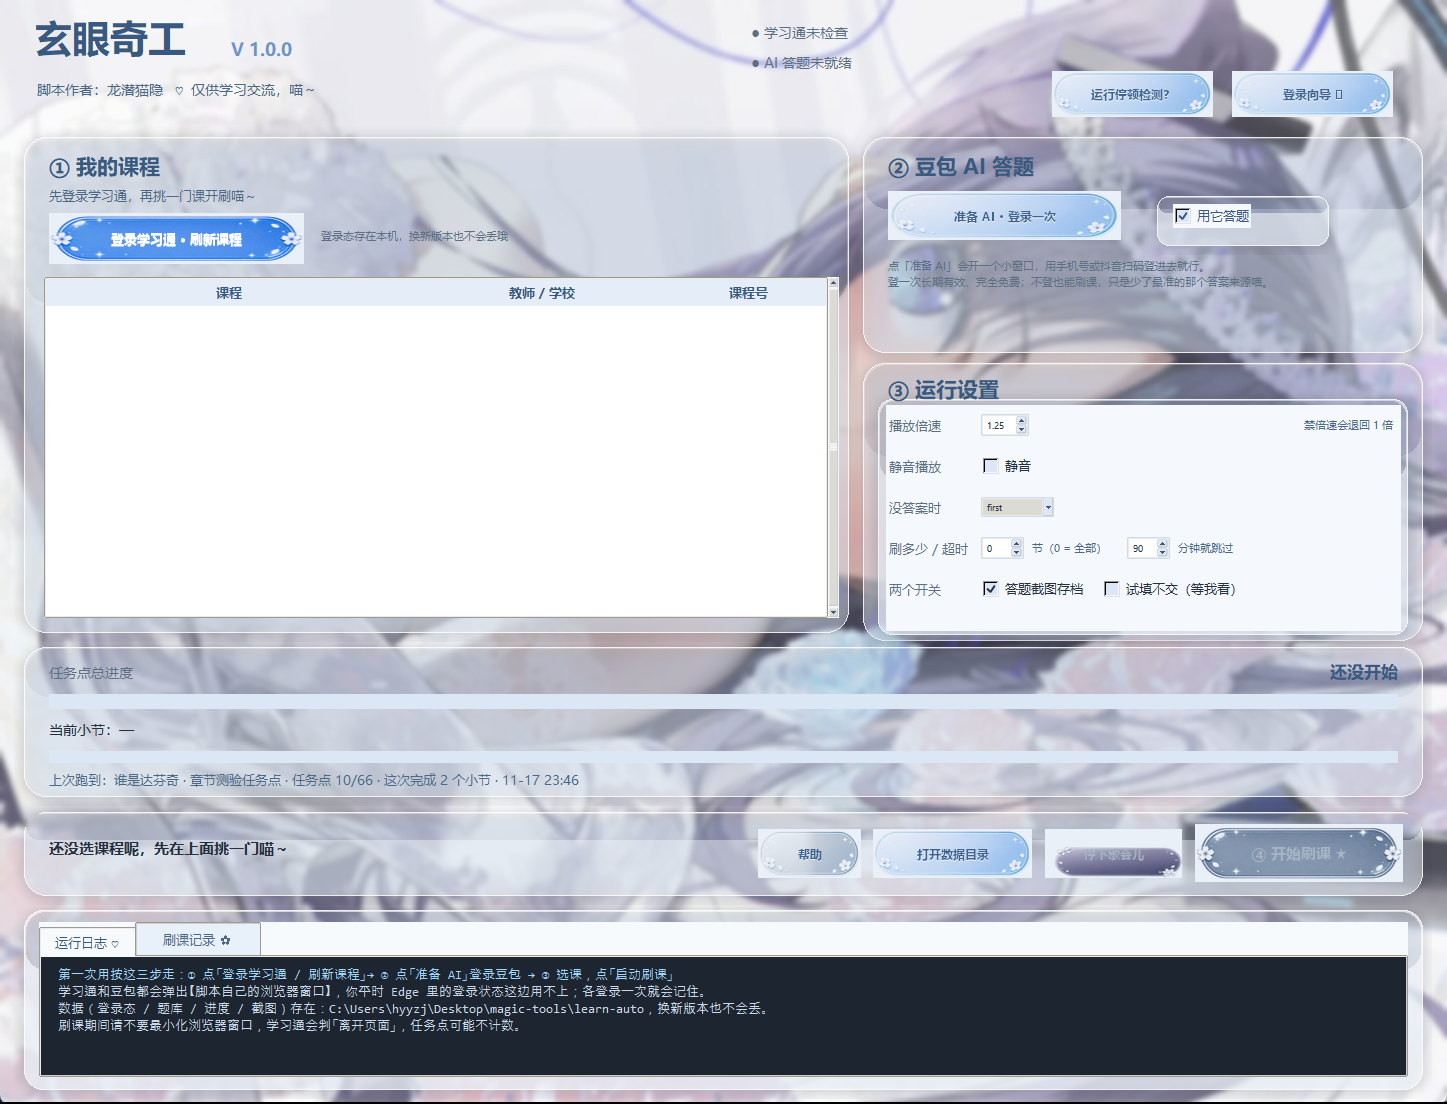
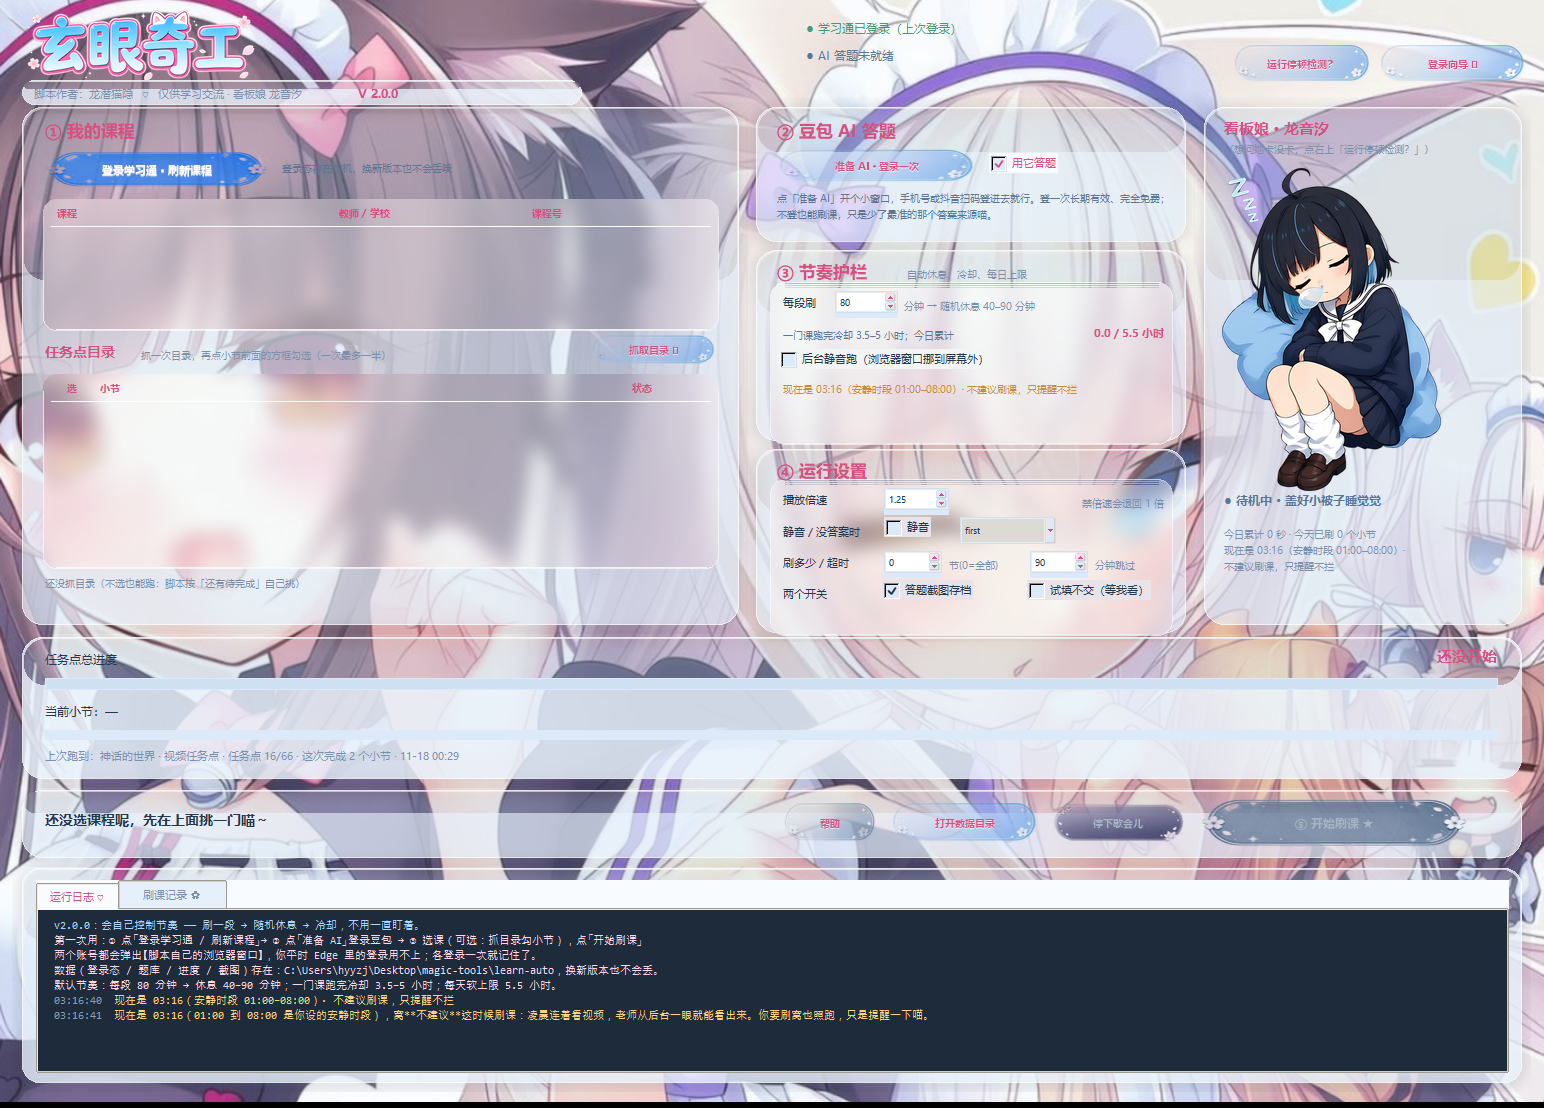
v2.0.0: 节奏护栏 + 后台静默 + 界面重做

diff --git a/docs/versions/v2.0.0.md b/docs/versions/v2.0.0.md
@@ -1,0 +1,69 @@
+# v2.0.0 · 节奏护栏 + 后台静默 + 界面重做
+
+发布：2026-11-18
+
+## 为什么要做这一版
+
+v1.0.1 能刷通章节了，但有两个明显问题：
+
+1. **像机器人**：连着几小时不停、视频一个接一个、答题秒回。真人不会这样。
+2. **占屏幕**：脚本的浏览器窗口必须最大化放着，干别的事都没法干。
+
+这一版把「节奏」做成了核心功能，页面重做，还加了后台静默模式。
+
+## 改了什么
+
+### 1) 节奏护栏（新模块 `pace.py`）
+
+| 规则 | 默认值 | 说明 |
+| --- | --- | --- |
+| 每段时长 | 80 分钟（±15% 抖动） | 到一个长度就停，进入休息 |
+| 段间休息 | 40–90 分钟（均值 62） | 休息结束重新点「开始刷课」接着刷 |
+| 段内微休息 | 每 25–40 分钟停 40–90 秒 | 连着刷久了会自己停一下 |
+| 一门课跑完冷却 | 3.5–5 小时 | 异常中断**不计**冷却，可以马上重试 |
+| 每日累计 | 软 5.5 小时提示 / 硬 7.5 小时停 | 软上限只提醒，硬上限才拦 |
+| 夜间时段 | 01:00–08:00 | **只提示不建议，不拦** |
+| 一次选点上限 | 剩余未完成小节的一半（向下取整，至少 1） | 少选一点更像真人 |
+| 课程串联 | 最多 2 门，课间 10–25 分钟 | 串联总时长超 4 小时给提示 |
+| 答题延迟 | 常规 1.8–4.2 秒，偶尔更快/更慢 | 两题间隔 0.8–2.5 秒，整套 ≥45 秒，提交前再停 2–6 秒 |
+
+另外：检测到页面出现「今日视频任务点完成数已达上限」这类提示，立刻停手并告诉你。
+
+### 2) 任务点自选
+
+GUI 里点「抓取目录」会把整门课的章节树拉下来（两层：大章节 → 小章节），每个小节前面有 ☐，点一下勾选。
+已经完成、还没解锁的小节会标出来不让选；一次选超过一半会拦下来并说明原因。
+
+### 3) 后台静默跑
+
+设置里勾「后台静音跑（浏览器窗口挪到屏幕外）」：
+
+- 浏览器窗口挪到屏幕外（`--window-position=-32000,-32000`），不占你的桌面
+- 关掉 Chromium 的后台节流（不可见窗口降频、计时器节流、渲染暂停），免得因为「窗口不可见」被判定离开页面
+- 用 CDP `Emulation.setFocusEmulationEnabled` 让页面始终认为自己在前台
+
+### 4) 界面重做
+
+- 配色：淡蓝 + 樱花粉
+- 背景：插画壁纸，卡片是半透明磨砂
+- 看板娘 **龙音汐**（三态 Q 版立绘）：待机 / 正在刷课 / 出问题
+- 标题换成 AI 生成的艺术字（猫耳在「奇」上）
+- 图标：龙音汐抱着显示学习通图标的平板
+- 所有列表、设置块改成**从壁纸切片出来的磨砂面板**，不再是纯白方块（Tk 的 Treeview 永远刷一块不透明底色，所以自己写了一个画布列表控件）
+
+## 真机验证
+
+- 离线自测：`test_offline` / `test_taskpoint` / `test_pace` / `test_resume` 全绿
+- GUI 冒烟 + 打包后 exe 启动截图：界面正常，两盏登录灯和「上次跑到」都能读出来
+- 安装包静默安装到 `%LOCALAPPDATA%\玄眼奇工`，快捷方式启动正常
+
+## 升级方式
+
+把新的安装包发给对方，装到同一个目录即可；`config.json` 和登录态都会保留。
+
+## 已知问题
+
+- 画布列表是自己画的，暂时不支持列宽拖动、多选、键盘导航
+- 磨砂面板是「壁纸模糊切片」，缩放窗口时图案不会跟着变（窗口尺寸固定，所以看不出来）
+- 夜间时段按本机时间算，跨时区不管
+- 题面字体加密还原后偶尔仍有个别错字（「空间」还原成「空问」），AI 提示词里已经让它按最接近的意思理解

diff --git a/docs/how-it-works.md b/docs/how-it-works.md
@@ -210,3 +210,38 @@ def decode_chars(text, ttf_bytes):
 - 所有卡片是 Pillow 画的半透明磨砂片（圆角 + 白描边 + 粉色外发光 + 顶部高光），不是纯色底；
 - 按钮是 AI 生成的素材图（花瓣 / 蝴蝶结），按三段式横向拉伸保持两端不变形，文字由 Pillow 烘焙到图上；
 - 每个库/标准库都登记在 deps 清单里，因为加密后的代码对 PyInstaller 不透明；
+
+
+## 14. 节奏护栏：把自己装成一个「有作息的人」
+
+写在 `pace.py` 里，状态存 `state/pace.json`（跨天自动清零）。规则是这么叠的：
+
+- **分段**：每段 80 分钟 ±15% 抖动（截断正态，不出现 0 或翻倍）。到点就停，提示「去休息」。
+- **段间休息**：40–90 分钟，均值 62，用截断正态抽，不是均匀分布（真人不会总是 65 分钟）。
+- **段内微休息**：每 25–40 分钟随机停 40–90 秒。
+- **课程冷却**：一门课跑完记 3.5–5 小时冷却；**异常中断（浏览器被关、页面报错）不计冷却**，所以崩了可以马上重试。
+- **每日上限**：软 5.5 小时只提示、硬 7.5 小时才真的停。
+- **夜间**：01:00–08:00 只提示不建议，不拦。
+- **取整**：一次最多刷「剩余未完成小节的一半」，向下取整且至少 1。
+
+答题节奏单独一层：正常每题 1.8–4.2 秒、10% 概率 0.6–1.4 秒、5% 概率 4.2–5.0 秒；两题间隔 0.8–2.5 秒；整套至少 45 秒；提交前再停 2–6 秒。**这些只加在「答案来得太快」的时候**（AI 有时 2 秒就回了），不会让本来就慢的题更慢。
+
+还有一条兜底：页面出现「今日视频任务点完成数已达上限」这类文案，立刻停手。
+
+## 15. 后台静默：窗口不可见也不被判定「离开页面」
+
+Chromium 对不可见窗口会做三件事：渲染降频、计时器节流、视频暂停。学习通的「离开页面」检测正好吃这三招。所以后台模式同时做了：
+
+- 窗口挪到屏幕外：`--window-position=-32000,-32000`
+- 关节流：`--disable-backgrounding-occluded-windows`、`--disable-renderer-backgrounding`、`--disable-background-timer-throttling`、`--disable-features=CalculateNativeWinOcclusion`
+- 焦点模拟：CDP `Emulation.setFocusEmulationEnabled {enabled: true}`
+
+## 16. 为什么列表要自己画
+
+Tk 的 `Treeview` 永远刷一块不透明底色，做不出「透出壁纸」的效果。所以列表和设置块改成：
+
+1. 先把整张壁纸做一份磨砂版（高斯模糊 + 白色 + 淡蓝色调）
+2. 每个面板从磨砂版上**按自己的屏幕位置切片**，再压一道上沿阴影
+3. 文字直接画在 Canvas 上（没有控件底色），交互控件颜色从磨砂片取同一点的颜色当底色
+
+这样面板和壁纸是同一张图，看起来就是「透的、凹进去的」。

diff --git a/README.md b/README.md
@@ -4,6 +4,8 @@
 >
 > **这个仓库只公开它怎么做到的**：架构、原理、用到的工具、当前版本的局限，以及少量可以独立阅读的代码片段。**不提供**可直接运行的完整源码、打包好的 exe、任何登录态或题库数据。
 
+当前公开版本：**v2.0.0**（[更新日志](CHANGELOG.md) · [版本索引](docs/versions/README.md)）
+
 ![主界面](assets/screenshot.png)
 
 ---
@@ -19,6 +21,9 @@
 | 章节测验 | 解析题干与选项 → 还原字体加密 → 逐题取答案 → 逐题勾选 → **自检「每题都选上了吗」** → 提交 → 读分 → 不到 80 分找「重做」入口 |
 | 不交白卷 | 一道都没答上 / 有题没选上 / 超过一半是瞎蒙 → 宁可不交，避免留下 0 分记录 |
 | 记录 | 进度条、当前小节、「上次跑到哪个任务点」、刷课记录（优秀 / 及格 / 不及格）都留在本地 |
+| 节奏护栏 | 每段 80 分钟 → 随机休息 40–90 分钟；跑完一门课冷却 3.5–5 小时；每天软 5.5 小时提示、硬 7.5 小时停；夜间只提示不拦 |
+| 自选任务点 | 抓整门课的章节树到窗口，勾选要刷的小节，一次最多一半（已完成 / 锁定的小节不给选） |
+| 后台静默 | 浏览器窗口挪到屏幕外 + 关掉后台节流 + 焦点模拟，可以一边干别的事 |
 
 ---
 

diff --git a/CHANGELOG.md b/CHANGELOG.md
@@ -1,5 +1,18 @@
 # 更新日志
 
+## v2.0.0 · 2026-11-18
+
+一句话：**像真人在刷，而且不占你的屏幕。**
+
+- 新增节奏护栏（`pace.py`）：每段 80 分钟 ±15% → 随机休息 40–90 分钟；段内每 25–40 分钟微休息；一门课跑完冷却 3.5–5 小时（异常中断不计）；每天软 5.5 小时只提示、硬 7.5 小时才停；夜间 01:00–08:00 只提示不拦
+- 新增任务点自选：抓整门课的章节树到窗口，点 ☐ 勾选，一次最多一半；已完成 / 锁定的小节不给选
+- 新增后台静默模式：浏览器窗口挪到屏幕外 + 关后台节流 + 焦点模拟，可以一边干别的
+- 答题加真人节奏：每题 1.8–4.2 秒（偶尔更快/更慢）、两题间隔 0.8–2.5 秒、整套 ≥45 秒、提交前再停 2–6 秒
+- 检测到「今日视频任务点完成数已达上限」立刻停手并提示
+- 界面重做：淡蓝 + 樱花粉、插画壁纸、半透明磨砂卡片、看板娘龙音汐三态立绘、AI 艺术字标题、新图标
+- 列表与设置块改成从壁纸切片出来的磨砂面板（不再是纯白方块）
+- 更多细节见 `docs/versions/v2.0.0.md`
+
 格式参考 Keep a Changelog，版本号语义见 [docs/release.md](docs/release.md)。
 
 ## [v1.0.1] - 2026-11-18

diff --git a/docs/versions/README.md b/docs/versions/README.md
@@ -4,6 +4,7 @@
 
 | 版本 | 日期 | 主题 | 一句话 |
 | --- | --- | --- | --- |
+| [v2.0.0](v2.0.0.md) | 2026-11-18 | 节奏护栏 + 后台静默 + 界面重做 | 像真人在刷：分段、随机休息、课程冷却、每日上限、答题延迟；浏览器可挪到屏幕外；界面重做成淡蓝樱花 + 看板娘龙音汐 |
 | [v1.0.1](v1.0.1.md) | 2026-11-18 | 断点续跑 | 修「重跑从第一节开始」：按服务端任务点跳过已做完的小节 |
 | [v1.0.0](v1.0.0.md) | 2026-11-18 | 首个公开版本 | 视频 + 章节测验全链路跑通，登录向导、91% 提前判定、刷课记录、加密与安装包 |
 

diff --git a/docs/limitations.md b/docs/limitations.md
@@ -37,3 +37,7 @@
 
 17. **固定尺寸、不支持拉伸**（按屏幕算缩放，但窗口不能自由改大小）。
 18. **没有多语言**，全中文。
+
+- 界面里的列表是自绘的画布控件，暂不支持列宽拖动 / 多选 / 键盘导航
+- 磨砂面板是「壁纸模糊切片」，依赖窗口固定尺寸；改成可缩放窗口后需要重算切片
+- 夜间时段按本机时间判断，不处理时区与夏令时
